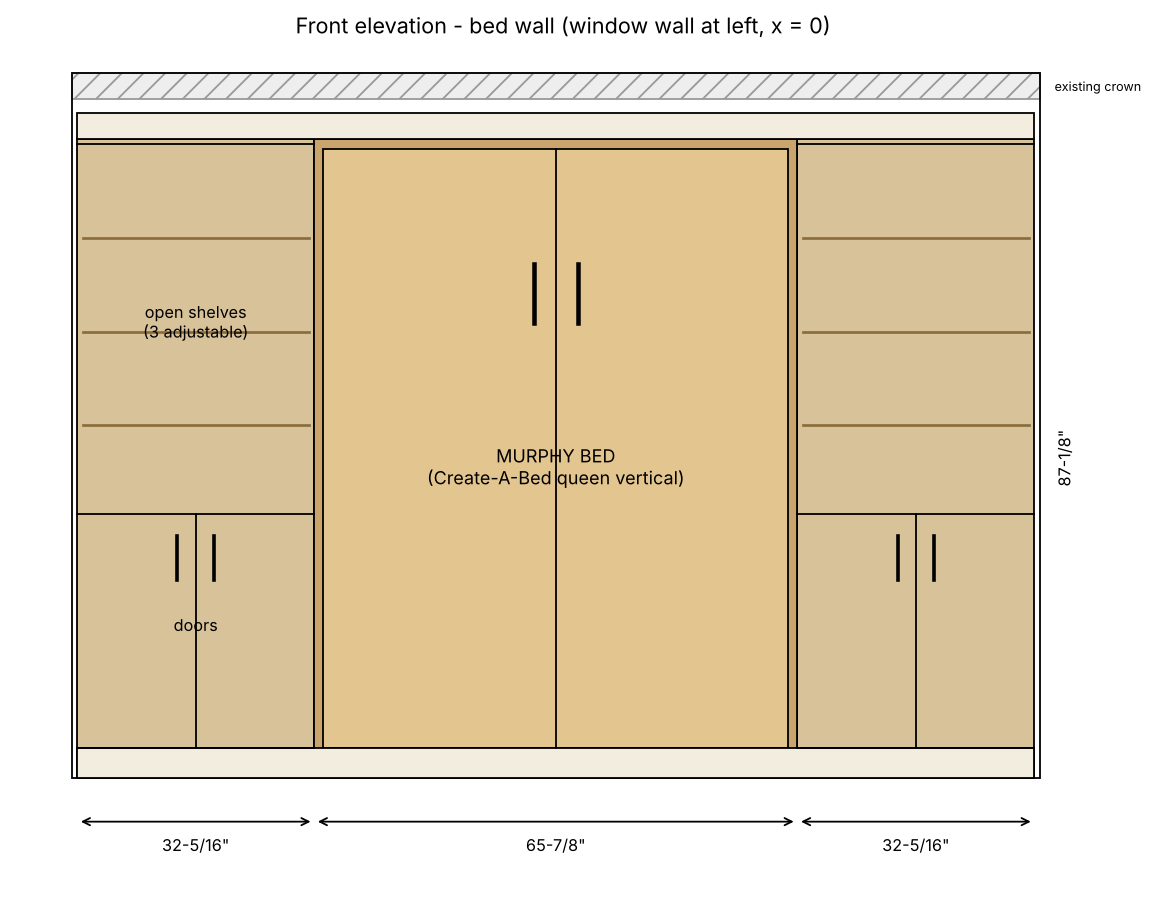
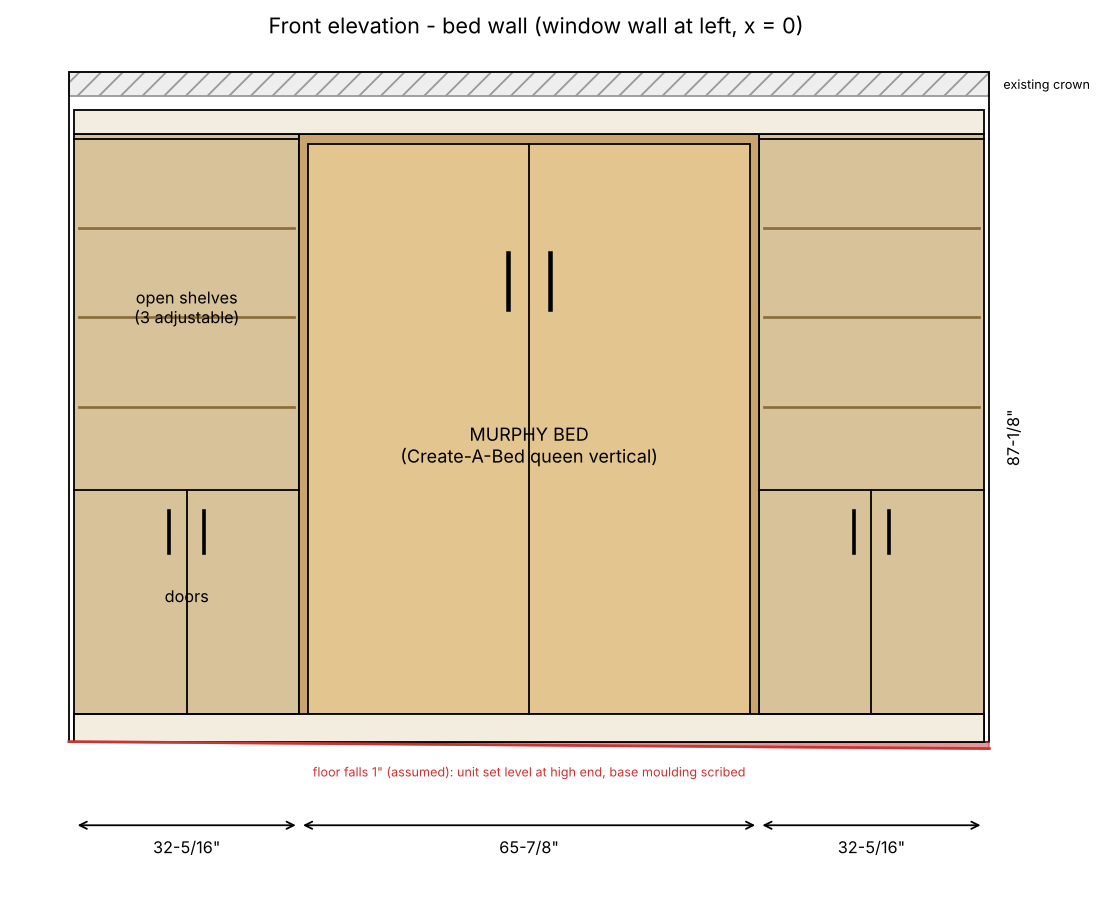
Model an out-of-level floor: shim/scribe notes, base stock height, crown gap
Claude-Session: https://claude.ai/code/session_01KugbWEtLNVU8bq7dW5xBvy

diff --git a/murphy-bed/design.py b/murphy-bed/design.py
@@ -29,6 +29,7 @@ NEW_CROWN_H = 3.5       # new crown, same style as existing (ASSUMED)
 NEW_CROWN_PROJ = 3.5
 BASE_H = 4.0            # new base molding / toe-kick height (ASSUMED)
 SCRIBE = 0.75           # fitting gap left at each wall end
+FLOOR_DROP = 1.0        # floor falls this much across the 132" wall (ASSUMED; measure it)
 
 # Create-A-Bed queen vertical (plans p.2 and p.6)
 BED_W, BED_H, BED_D = 65.875, 87.125, 15.875
@@ -112,7 +113,7 @@ def trim_list():
     return [
         ('Crown moulding, front run', f'{WALL_W / 12:.1f} ft ({frac(run)}) + mitre waste'),
         ('Crown moulding, end returns', f'2 x {frac(ret)} (return to each end wall)'),
-        ('Base moulding, front run', f'{WALL_W / 12:.1f} ft ({frac(run)}) + mitre waste'),
+        ('Base moulding, front run', f'{WALL_W / 12:.1f} ft ({frac(run)}) + mitre waste; stock at least {frac(BASE_H + FLOOR_DROP + 0.25)} tall, scribed to the floor (top edge level)'),
         ('Base moulding, end returns', f'2 x {frac(BED_D + 0.75)}'),
         ('Edge banding', '13/16" iron-on, ~80 ft for bed (plans) + ~65 ft for towers/shelves'),
     ]
@@ -282,10 +283,12 @@ def write_reports(outdir):
            '- Tower-to-wall anchors: 2 cleats or 4 screws per tower; tower-to-bed-cabinet clamp screws through the adjoining sides',
            '- #8 x 1-1/4" and 1-1/2" screws, glue, 1-1/2" finish nails (per kit BOM)']
     md.append('\n## Assumptions to verify\n')
-    md += [f'- Ceiling {frac(CEIL_H)} and level; floor level',
+    md += [f'- Ceiling {frac(CEIL_H)}, measured from the HIGH point of the floor (floor is NOT level)',
            f'- Existing crown {frac(EXIST_CROWN_H)} tall x {frac(EXIST_CROWN_PROJ)} proud; new crown {frac(NEW_CROWN_H)} tall (matches style, not measured)',
-           f'- Gap between new crown top ({frac(BED_H + NEW_CROWN_H)}) and bottom of existing crown ({frac(CEIL_H - EXIST_CROWN_H)}) is {frac(CEIL_H - EXIST_CROWN_H - BED_H - NEW_CROWN_H)}: add a frieze board or taller crown to close it',
-           f'- Base moulding {frac(BASE_H)} tall; check it stays below the bed face panel',
+           f'- Gap between new crown top ({frac(BED_H + NEW_CROWN_H)}) and bottom of existing crown ({frac(CEIL_H - EXIST_CROWN_H)}) is {frac(CEIL_H - EXIST_CROWN_H - BED_H - NEW_CROWN_H)} on a level floor. With a {frac(FLOOR_DROP)} floor drop the unit is set level from the HIGH end of the floor, so the gap shrinks to {frac(CEIL_H - EXIST_CROWN_H - BED_H - NEW_CROWN_H - FLOOR_DROP)}. Ceiling must be measured from the high point of the floor.',
+           f'- Floor not level (assumed {frac(FLOOR_DROP)} across the wall): level and plumb the bed cabinet FIRST on shims at the high point, set the towers to match its top, then scribe the base moulding to the floor. Shims go behind the base moulding. The bed cabinet must be plumb or the face-panel gap will be uneven (plans, assembly p.11 steps 19-20).',
+           f'- Open bed: the kit legs are fixed tubes, so on a floor that falls up to {frac(FLOOR_DROP)} one leg may hang off the floor. Check the leg ends for adjusters, plan on adjustable glides or a shim, and ask Create-A-Bed.',
+           f'- Base moulding {frac(BASE_H)} tall at the high point ({frac(BASE_H + FLOOR_DROP)} at the low end after scribing); check the bed face panel clears it',
            '- Bed wall is flat and has studs at usable spacing; the kit requires wood/metal-stud/masonry anchoring (plans p.10)',
            f'- Window starts {frac(WINDOW_FROM_WALL)} from the bed wall: tower depth {frac(TOWER_D)} leaves {frac(WINDOW_FROM_WALL - TOWER_D)} to the window edge (trim not included)',
            f'- Room is deep enough: open bed projects {frac(BED_OPEN_PROJ)} from the wall, so need > {frac(BED_OPEN_PROJ + 24)} for walking clearance (window-wall length not yet given)']
@@ -328,21 +331,24 @@ def draw_all(outdir, s34, s14):
     ax.plot([xb + BED_W / 2] * 2, [4, 85.75], 'k', lw=1)
     for hx in (xb + BED_W / 2 - 3, xb + BED_W / 2 + 3):
         ax.plot([hx] * 2, [62, 70], 'k', lw=2.5)
+    ax.fill([0, WALL_W, WALL_W], [0, 0, -FLOOR_DROP], color='#c33', alpha=0.5)
+    ax.plot([0, WALL_W], [0, -FLOOR_DROP], color='#c33', lw=1.5)
+    ax.text(WALL_W / 2, -FLOOR_DROP - 4, f'floor falls {frac(FLOOR_DROP)} (assumed): unit set level at high end, base moulding scribed', ha='center', fontsize=7, color='#c33')
     ax.add_patch(Rectangle((xl, 0), WALL_W - 2 * SCRIBE, BASE_H, fc=COLORS['trim'], ec='k'))
     ax.add_patch(Rectangle((xl, BED_H), WALL_W - 2 * SCRIBE, NEW_CROWN_H, fc=COLORS['trim'], ec='k'))
     ax.text(xl + TOWER_W / 2, 60, 'open shelves\n(3 adjustable)', ha='center', fontsize=9)
     ax.text(xl + TOWER_W / 2, 20, 'doors', ha='center', fontsize=9)
     ax.text(xb + BED_W / 2, 40, 'MURPHY BED\n(Create-A-Bed queen vertical)', ha='center', fontsize=10)
-    ax.annotate('', (xl, -6), (xb, -6), arrowprops=dict(arrowstyle='<->'))
-    ax.text((xl + xb) / 2, -10, frac(TOWER_W), ha='center', fontsize=9)
-    ax.annotate('', (xb, -6), (xr, -6), arrowprops=dict(arrowstyle='<->'))
-    ax.text((xb + xr) / 2, -10, frac(BED_W), ha='center', fontsize=9)
-    ax.annotate('', (xr, -6), (xr + TOWER_W, -6), arrowprops=dict(arrowstyle='<->'))
-    ax.text(xr + TOWER_W / 2, -10, frac(TOWER_W), ha='center', fontsize=9)
+    ax.annotate('', (xl, -12), (xb, -12), arrowprops=dict(arrowstyle='<->'))
+    ax.text((xl + xb) / 2, -16, frac(TOWER_W), ha='center', fontsize=9)
+    ax.annotate('', (xb, -12), (xr, -12), arrowprops=dict(arrowstyle='<->'))
+    ax.text((xb + xr) / 2, -16, frac(BED_W), ha='center', fontsize=9)
+    ax.annotate('', (xr, -12), (xr + TOWER_W, -12), arrowprops=dict(arrowstyle='<->'))
+    ax.text(xr + TOWER_W / 2, -16, frac(TOWER_W), ha='center', fontsize=9)
     ax.text(WALL_W + 2, BED_H / 2, f'{frac(BED_H)}', rotation=90, va='center', fontsize=9)
     ax.text(WALL_W + 2, CEIL_H - EXIST_CROWN_H / 2, 'existing crown', va='center', fontsize=7)
     ax.set_xlim(-8, WALL_W + 10)
-    ax.set_ylim(-16, CEIL_H + 4)
+    ax.set_ylim(-22, CEIL_H + 4)
     ax.set_aspect('equal')
     ax.set_title('Front elevation - bed wall (window wall at left, x = 0)')
     ax.axis('off')

diff --git a/murphy-bed/out/cutlist.md b/murphy-bed/out/cutlist.md
@@ -58,7 +58,7 @@ Without using the offcut: 4 sheets.
 
 - Crown moulding, front run: 11.0 ft (132") + mitre waste
 - Crown moulding, end returns: 2 x 19-3/8" (return to each end wall)
-- Base moulding, front run: 11.0 ft (132") + mitre waste
+- Base moulding, front run: 11.0 ft (132") + mitre waste; stock at least 5-1/4" tall, scribed to the floor (top edge level)
 - Base moulding, end returns: 2 x 16-5/8"
 - Edge banding: 13/16" iron-on, ~80 ft for bed (plans) + ~65 ft for towers/shelves
 
@@ -72,10 +72,12 @@ Without using the offcut: 4 sheets.
 
 ## Assumptions to verify
 
-- Ceiling 96" and level; floor level
+- Ceiling 96", measured from the HIGH point of the floor (floor is NOT level)
 - Existing crown 3-1/2" tall x 3-1/2" proud; new crown 3-1/2" tall (matches style, not measured)
-- Gap between new crown top (90-5/8") and bottom of existing crown (92-1/2") is 1-7/8": add a frieze board or taller crown to close it
-- Base moulding 4" tall; check it stays below the bed face panel
+- Gap between new crown top (90-5/8") and bottom of existing crown (92-1/2") is 1-7/8" on a level floor. With a 1" floor drop the unit is set level from the HIGH end of the floor, so the gap shrinks to 7/8". Ceiling must be measured from the high point of the floor.
+- Floor not level (assumed 1" across the wall): level and plumb the bed cabinet FIRST on shims at the high point, set the towers to match its top, then scribe the base moulding to the floor. Shims go behind the base moulding. The bed cabinet must be plumb or the face-panel gap will be uneven (plans, assembly p.11 steps 19-20).
+- Open bed: the kit legs are fixed tubes, so on a floor that falls up to 1" one leg may hang off the floor. Check the leg ends for adjusters, plan on adjustable glides or a shim, and ask Create-A-Bed.
+- Base moulding 4" tall at the high point (5" at the low end after scribing); check the bed face panel clears it
 - Bed wall is flat and has studs at usable spacing; the kit requires wood/metal-stud/masonry anchoring (plans p.10)
 - Window starts 30" from the bed wall: tower depth 15-7/8" leaves 14-1/8" to the window edge (trim not included)
 - Room is deep enough: open bed projects 87" from the wall, so need > 111" for walking clearance (window-wall length not yet given)
